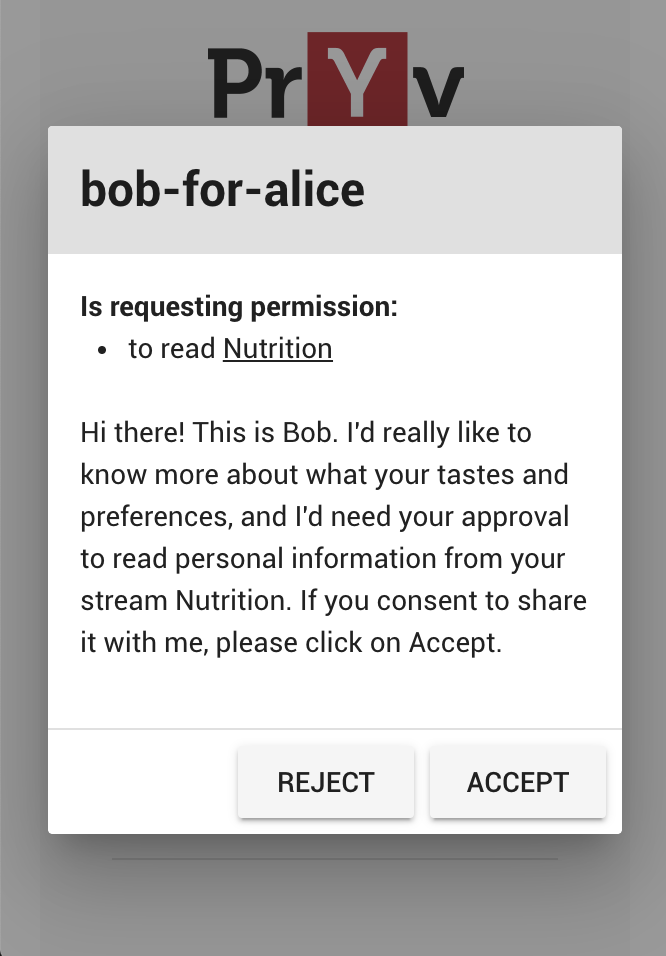
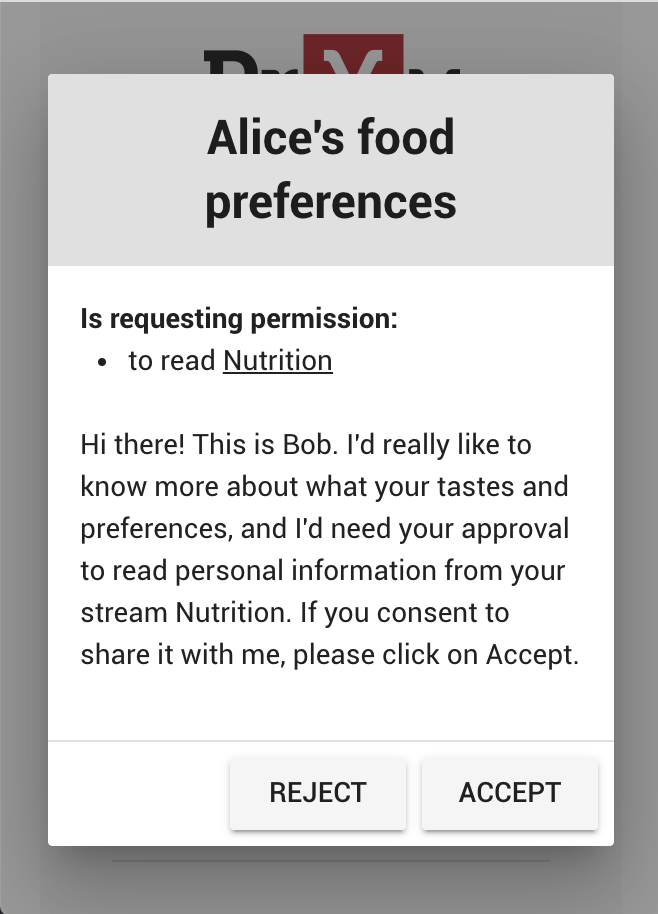
change app message

Changed region(s): [[0.0608, 0.0306, 0.9422, 0.7352], [0.0608, 0.7965, 0.9422, 0.9497]]

diff --git a/source/guides/consent/request.html b/source/guides/consent/request.html
@@ -16,7 +16,7 @@
 
 <body>
   <div class="container">
-    <h1>Pryv collect survey data</h1>
+    <h1>Pryv request consent</h1>
 
     <div class="card">
       <div class="card-body">
@@ -24,8 +24,7 @@
         <span id="pryv-button"></span>
         <br><br>
         <label id="welcome-message">
-          Dear Madam, following your recent visit to the maternity we invite you to answer the following two
-          questions to track your baby's weight and your blood pressure.
+          Dear Alice, you have received a data request on your Pryv.io account. Please login to answer the consent request.
         </label>
         <span id="please-login">
           Please login.

diff --git a/source/guides/consent.md b/source/guides/consent.md
@@ -32,7 +32,7 @@ Data in Pryv.io accounts is organized in streams and events, and accesses are di
 
 Let's keep things simple for now; thus, suffice to say that consent from the user will focus on "streams". If you wish to learn more about the **Pryv.io Data Model**, you can do so in this [tech guide](https://api.pryv.com/guides/data-modelling/) or [this video](https://www.youtube.com/watch?v=zl9RTf6JTps).
 
-With Pryv.io, we are aiming at implementing a way of collecting consent that is straightforward, transparent, and meets the very specific requirements of the regulation: *freely given, specific, informed and unambiguous*.
+With Pryv.io, we are aiming at implementing a way of collecting consent that is straightforward, transparent, and meets the very specific requirements of the regulation: *freely given, specific, informed and unambiguous* ([Article 4](https://gdpr.eu/article-4-definitions/) of the GDPR).  
 
 Below are the step-by-step instructions on how to request consent from your user:
 
@@ -54,8 +54,7 @@ You will need to customize a few parameters to adapt it to your needs and ensure
 }
 ```
 
-**Consent** under the GDPR is defined as *“any freely given, specific, informed and unambiguous indication of the data subject's wishes by which he or she, by a statement or by a clear affirmative action, signifies agreement to the processing of personal data relating to him or her”* ([Article 4](https://gdpr.eu/article-4-definitions/) of the GDPR).  
-This implies that the consent request must follow very specific requirements that you need to keep in mind when customizing your consent message:
+The consent request must follow very specific requirements that you need to keep in mind when customizing your consent message:
 
 - **Consent must be informed**: Your app users must be fully informed of the data processing before granting consent. This means that your consent message should notify them of:
 
@@ -136,7 +135,7 @@ This will return information about the access in use:
 Let's illustrate the consent request process with a practical example. Bob wishes to invite Alice on a date to a restaurant but doesn't know her food preferences.
 He wants to request access on Alice's stream "Nutrition" to subtly analyze what she likes to eat...How can he do so?  
 
-- **1** As Alice's food preferences qualify as personal data under GDPR requirements, he will have to formulate a proper request to access them
+- **1** As Alice's food preferences qualify as personal data under GDPR requirements, he will have to formulate a proper request to access them.
 
 - **2** Both Alice and Bob already have their Pryv.io accounts settled and furnished with structured data (in streams and events).
 
@@ -179,7 +178,8 @@ INSERT SCREENSHOT OF APP
 <img src="/assets/images/consent2.png" width="333" height="478"/>
 </p>
 
-- **6** If she accepts, the app should send the obtained API endpoint to Bob (which was not done here). If it were to be saved, the link would have contained a token for a create-only level [Access](/reference/#access) and would have saved it on his streams as presented in [this chapter of the data modelling guide](/guides/data-modelling/#store-data-accesses).
+- **6** If she accepts, the app should send the obtained API endpoint to Bob (which was not done here).  
+In case Bob wants to save Alice's API endpoint along with other accesses that have been granted to him, he can do so as presented in [the chapter "Store data accesses" of the data modelling guide](/guides/data-modelling/#store-data-accesses).
 
 Bob is now ready to discover what Alice really likes...
 
@@ -191,7 +191,16 @@ Bob is now ready to discover what Alice really likes...
 
 ## References
 
+### Data privacy requirements and legislation
+
 For more general information about how the GDPR requirements affect Swiss companies, you can read our article ["GDPR, Swiss DPA & ePrivacy – what Swiss companies should know"](https://www.pryv.com/2019/11/20/gdpr-swiss-dpa-e-privacy/).  
 More generally, we show [here](https://docs.google.com/document/d/16JiKDiJFbkwMGAJmehRJkZ5Wxfm9Lcnz5X4YuHmuBuA/edit) how you can leverage Pryv.io technology to achieve compliance while increasing your business efficiency. It goes over the GDPR checklist point by point to ensure a global understanding of the law, and shows how Pryv helps you solve it.
 
-You can also find more information on what is defined as **"personal data"** in our [FAQ](https://api.pryv.com/faq-api/#personal-data).
+### Personal data scope
+
+You can find more information on what is defined as **"personal data"** in our [FAQ](https://api.pryv.com/faq-api/#personal-data).
+
+### Data modelling
+
+**Pryv.io Data Model** is summarized in [this video](https://www.youtube.com/watch?v=zl9RTf6JTps).
+To learn how to model your data into streams and events, you can check our [tech guide](https://api.pryv.com/guides/data-modelling/) on data modelling.
